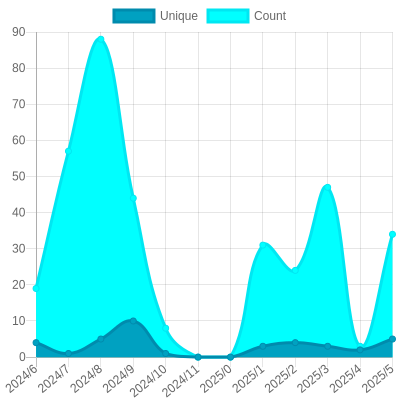
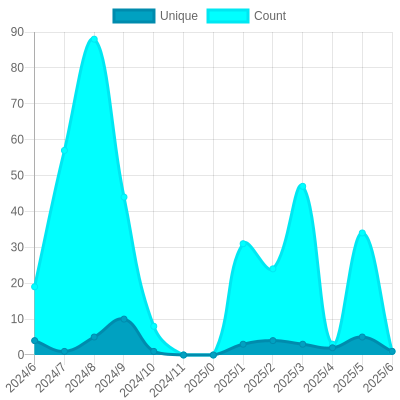
Update views

Changed region(s): [[0.03, 0.09, 0.99, 1.0], [0.03, 0.06, 0.06, 0.09]]

diff --git a/README.md b/README.md
@@ -26,7 +26,7 @@ The project created and maintained by [gayanvoice](https://github.com/gayanvoice
 			</a>
 		</td>
 		<td>
-			2024/6/29 1:09 AM UTC
+			2024/6/30 1:16 AM UTC
 		</td>
 		<td>
 			154
@@ -37,7 +37,7 @@ The project created and maintained by [gayanvoice](https://github.com/gayanvoice
 	</tr>
 </table>
 
-<small><i>Last updated on 2024/7/1 6:21 PM UTC</i></small>
+<small><i>Last updated on 2024/7/2 1:11 AM UTC</i></small>
 
 ## ✂Copy and 📋 Paste
 ### Total Views Badge

diff --git a/readme/398217802/year.md b/readme/398217802/year.md
@@ -20,6 +20,17 @@
 	</tr>
 	<tr>
 		<td>
+			<code>2024/7/1</code>
+		</td>
+		<td>
+			<code>1</code>
+		</td>
+		<td>
+			<code>1</code>
+		</td>
+	</tr>
+	<tr>
+		<td>
 			<code>2024/6/1</code>
 		</td>
 		<td>
@@ -153,7 +164,7 @@
 </table>
 
 </details>
-<small><i>Last updated on 2024/7/1 6:21 PM UTC</i></small>
+<small><i>Last updated on 2024/7/2 1:10 AM UTC</i></small>
 
 ## ✂Copy and 📋 Paste
 ### SVG Badge
